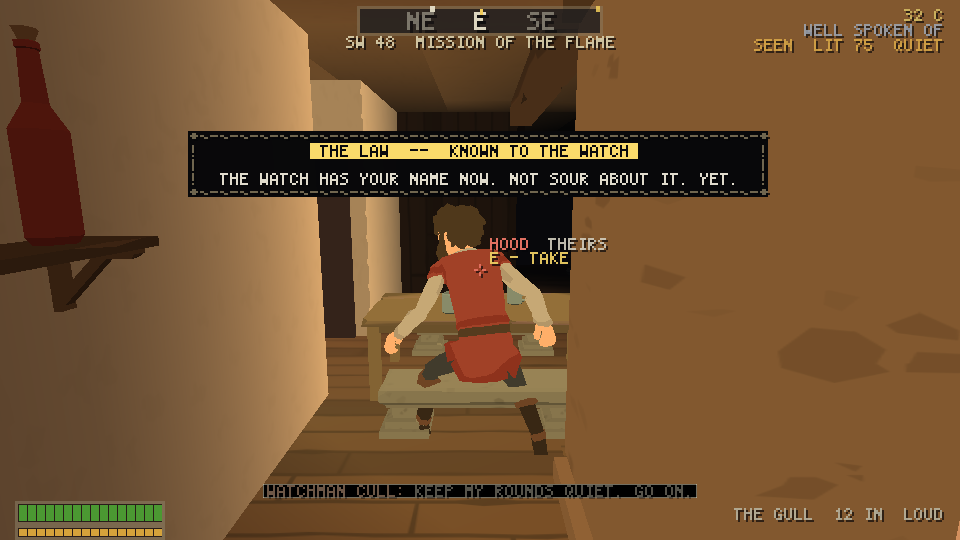
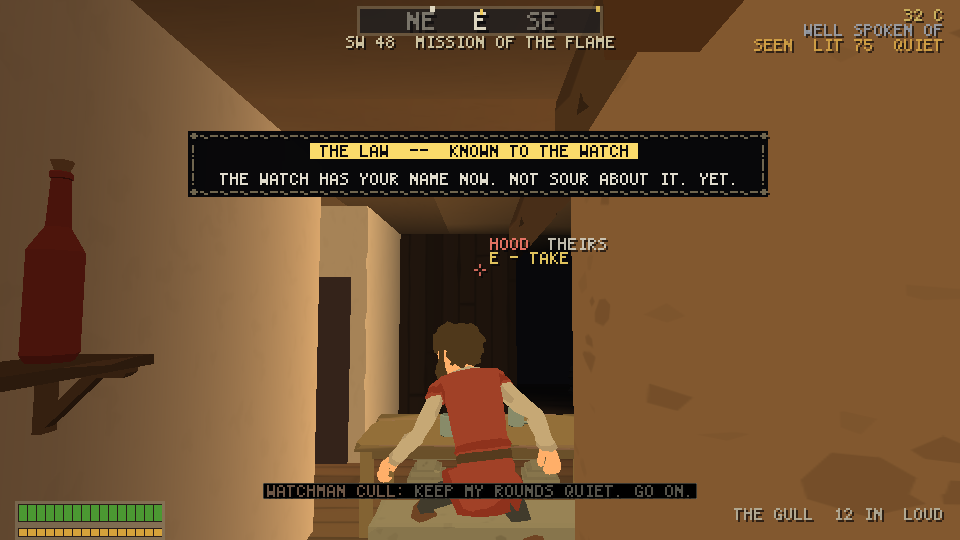
docs(rung): the sixth pass's six frames off the gated 44337db5 exe, and the law drive's hood told straight -- it hangs at head height on the line to Cull and no pitch from the stand-back clears it

diff --git a/docs/frames/rung/README.md b/docs/frames/rung/README.md
@@ -468,10 +468,12 @@ the card. Their lists, taken whole:
 - **The slab leaves ahead of the words.** Over the evening sky the lift was
   a fogged pane of glass with grey words on it for a dozen steps; the slab's
   alpha is the fade squared now, so the words are the last thing left.
-- **The law drive's reticle comes up off the table.** From the stand-back
-  the dip put the hood on Cull's table under the reticle: a red TAKE prompt
-  under the Watch's own card. The eye is level-and-a-touch now, the table
-  clears, and `aim=` says what it found instead.
+- **The law drive's eye comes up, and the hood is still there.** From the
+  stand-back the dip put the hood under the reticle: a red TAKE prompt under
+  the Watch's own card. The eye is level-and-a-touch now, and the summary
+  still says `aim="HOOD"`: the hood is not on his table but hung at head
+  height on the line to him, so no pitch clears it from that spot. Declared;
+  it is the same corner as the trade's patron, and the Gull's own lane.
 - **The summary says whether the rung rose.** `rose=yes|no` on every run,
   and `reason="Cull is not at his table at this hour"` on a daytime trade
   or law, so `found=yes plate=down` no longer reads as a success.
